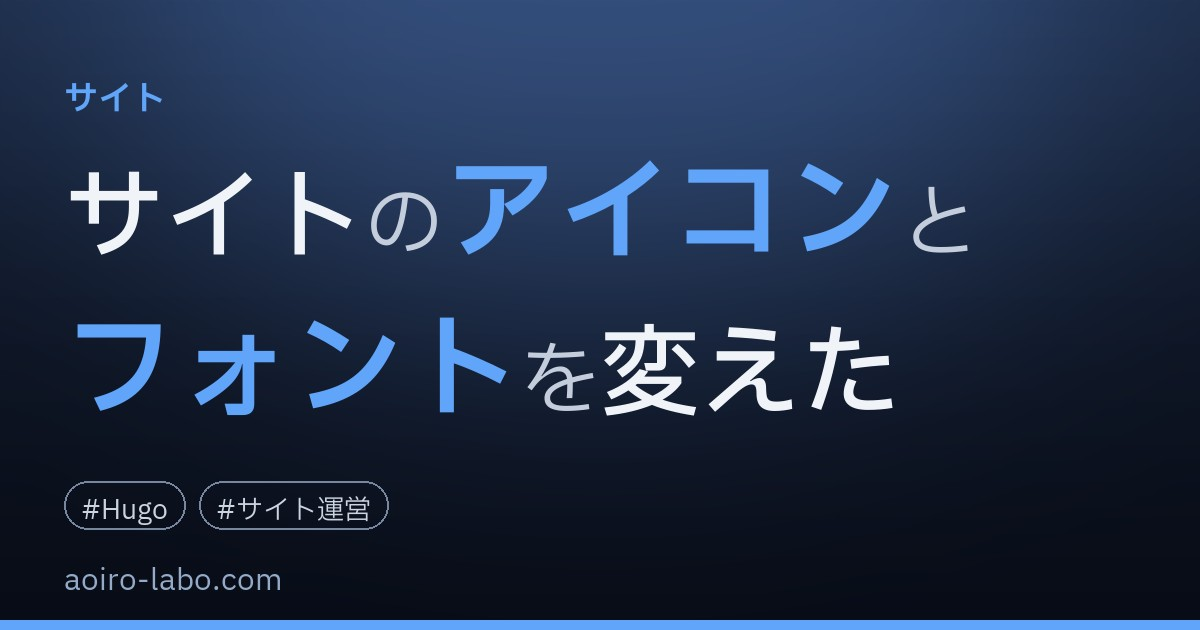
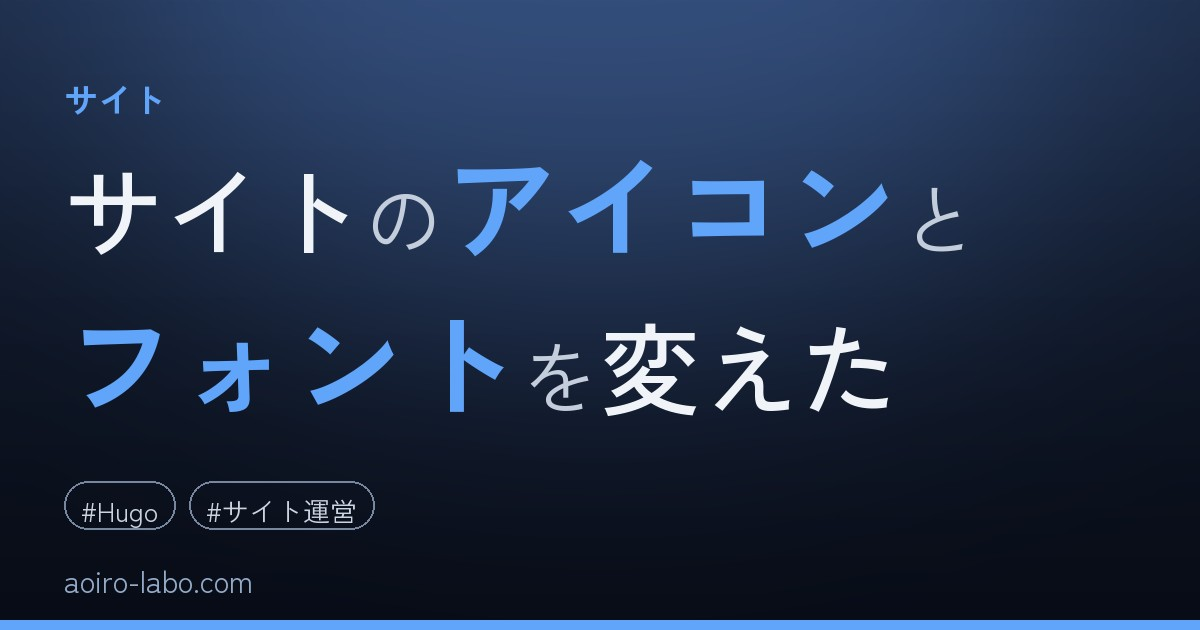
カバー生成のフォントをZen Kaku Gothic Newに変更（サイトと統一）

diff --git a/tools/generate_cover.py b/tools/generate_cover.py
@@ -27,9 +27,10 @@ def fm_of(path):
 
 BOLD=r"C:\Windows\Fonts\YuGothB.ttc"
 REG=r"C:\Windows\Fonts\YuGothM.ttc"
-PLEX_DIR=os.path.join(os.path.dirname(os.path.abspath(__file__)), "fonts")
-def plex_font(weight, size):
-    p = os.path.join(PLEX_DIR, f"IBMPlexSansJP-{weight}.ttf")
+FONT_DIR=os.path.join(os.path.dirname(os.path.abspath(__file__)), "fonts")
+ZEN_MAP={"Regular":"ZenKakuGothicNew-Regular.ttf","Medium":"ZenKakuGothicNew-Medium.ttf","SemiBold":"ZenKakuGothicNew-Bold.ttf","Bold":"ZenKakuGothicNew-Black.ttf"}
+def cover_font(weight, size):
+    p = os.path.join(FONT_DIR, ZEN_MAP[weight])
     if os.path.exists(p):
         return ImageFont.truetype(p, size)
     return ImageFont.truetype(BOLD if weight in ("Bold", "SemiBold") else REG, size)
@@ -227,10 +228,10 @@ def background(acc):
     return ImageChops.add(img, glow)
 
 def style_of(cls, size, acc):
-    if cls=='hero': return plex_font("Bold", int(size*1.45)), WHITE
-    if cls=='accent': return plex_font("SemiBold", int(size*1.15)), acc
-    if cls=='sub': return plex_font("Regular", max(20,int(size*0.8))), SUBC
-    return plex_font("Medium", size), BASE
+    if cls=='hero': return cover_font("Bold", int(size*1.45)), WHITE
+    if cls=='accent': return cover_font("SemiBold", int(size*1.15)), acc
+    if cls=='sub': return cover_font("Regular", max(20,int(size*0.8))), SUBC
+    return cover_font("Medium", size), BASE
 
 def line_heights(lines, size, acc):
     hs=[]
@@ -260,7 +261,7 @@ def draw_lines(d, items, lines, widths, x0, y_top, size, acc, heights):
 def finish(d, img, cat, tags, acc, y, out, x0=None, sx=None):
     if tags:
         y += 30
-        tf=plex_font("Regular", 27)
+        tf=cover_font("Regular", 27)
         x=MARGIN if x0 is None else x0
         for tg in tags[:5]:
             label='#'+tg
@@ -269,7 +270,7 @@ def finish(d, img, cat, tags, acc, y, out, x0=None, sx=None):
             d.rounded_rectangle([x,y,x+tw+34,y+48], radius=24, outline=(120,135,160), width=2)
             d.text((x+17,y+9), label, font=tf, fill=(203,213,225))
             x+=tw+34+14
-    d.text((MARGIN if sx is None else sx, H-72), 'aoiro-labo.com', font=plex_font("Regular", 30), fill=(148,170,200))
+    d.text((MARGIN if sx is None else sx, H-72), 'aoiro-labo.com', font=cover_font("Regular", 30), fill=(148,170,200))
     d.rectangle([0,H-10,W,H], fill=acc)
     img.save(out, quality=90)
 
@@ -438,14 +439,14 @@ def make(path, out, hero_override=None, emphasis_override=None):
             total = cat_h + block_h + (30 if tags else 0) + chips_h
             y = (H - total)//2 - 14
             if cat:
-                d.text((MARGIN, y), cat, font=plex_font("SemiBold", 34), fill=acc); y += 34+30
+                d.text((MARGIN, y), cat, font=cover_font("SemiBold", 34), fill=acc); y += 34+30
             if bracket:
-                d.text((MARGIN, y), bracket, font=plex_font("SemiBold", 40), fill=SUBC); y += bracket_h
+                d.text((MARGIN, y), bracket, font=cover_font("SemiBold", 40), fill=SUBC); y += bracket_h
             draw_lines(d, items, lines, widths, MARGIN, y, size, acc, heights)
             y += block_h
             if tags:
                 y += 30
-                tf=plex_font("Regular", 27)
+                tf=cover_font("Regular", 27)
                 x=MARGIN
                 for tg in tags[:5]:
                     label='#'+tg
@@ -471,7 +472,7 @@ def make(path, out, hero_override=None, emphasis_override=None):
             md.rounded_rectangle([0,0,nw,nh], radius=14, fill=255)
             img.paste(thumb,(px,py),mask)
             d.rounded_rectangle([px,py,px+nw,py+nh], radius=14, outline=(120,135,160), width=2)
-            d.text((MARGIN, H-72), 'aoiro-labo.com', font=plex_font("Regular", 30), fill=(148,170,200))
+            d.text((MARGIN, H-72), 'aoiro-labo.com', font=cover_font("Regular", 30), fill=(148,170,200))
             d.rectangle([0,H-10,W,H], fill=acc)
             img.save(out, quality=90)
             print('made (natural)', out, '| hero:', hero, '| lines:', [[t for (t,c,g) in ln] for ln in lines])
@@ -481,7 +482,7 @@ def make(path, out, hero_override=None, emphasis_override=None):
         # try zone composition: hero block on the right, white
         ksize=300
         while ksize>90:
-            kw_font=plex_font("Bold", ksize)
+            kw_font=cover_font("Bold", ksize)
             kw_w=d.textlength(hero, font=kw_font)
             if kw_w <= W*0.46: break
             ksize-=12
@@ -504,16 +505,16 @@ def make(path, out, hero_override=None, emphasis_override=None):
             block_h=sum(heights)
             kw_w_max = kw_w
             # size the hero so its ink height matches the left text block height
-            _f100=plex_font("Bold", 100)
+            _f100=cover_font("Bold", 100)
             _bb=d.textbbox((0,0), hero, font=_f100)
             _ratio=(_bb[3]-_bb[1])/100.0
             ksize=max(60, int(block_h*0.96/_ratio))
             while ksize>60:
-                kw_font=plex_font("Bold", ksize)
+                kw_font=cover_font("Bold", ksize)
                 kw_w=d.textlength(hero, font=kw_font)
                 if kw_w <= kw_w_max: break
                 ksize-=8
-            kw_font=plex_font("Bold", ksize)
+            kw_font=cover_font("Bold", ksize)
             kw_w=d.textlength(hero, font=kw_font)
             kw_bb=d.textbbox((0,0), hero, font=kw_font)
             line_ws=[]; _idx=0
@@ -524,9 +525,9 @@ def make(path, out, hero_override=None, emphasis_override=None):
             total = cat_h + block_h + (30 if tags else 0) + chips_h
             y = (H - total)//2 - 14
             if cat:
-                d.text((gx, y), cat, font=plex_font("SemiBold", 34), fill=acc); y += 34+30
+                d.text((gx, y), cat, font=cover_font("SemiBold", 34), fill=acc); y += 34+30
             if bracket:
-                d.text((gx, y), bracket, font=plex_font("SemiBold", 40), fill=SUBC); y += bracket_h
+                d.text((gx, y), bracket, font=cover_font("SemiBold", 40), fill=SUBC); y += bracket_h
             title_top = y
             draw_lines(d, items, lines, widths, gx, y, size, acc, heights)
             d.text((gx + maxlw + 14, title_top - kw_bb[1]), hero, font=kw_font, fill=WHITE)
@@ -568,9 +569,9 @@ def make(path, out, hero_override=None, emphasis_override=None):
     total = cat_h + block_h + (30 if tags else 0) + chips_h
     y = (H - total)//2 - 14
     if cat:
-        d.text((MARGIN, y), cat, font=plex_font("SemiBold", 34), fill=acc); y += 34+30
+        d.text((MARGIN, y), cat, font=cover_font("SemiBold", 34), fill=acc); y += 34+30
     if bracket:
-        d.text((MARGIN, y), bracket, font=plex_font("SemiBold", 40), fill=SUBC); y += bracket_h
+        d.text((MARGIN, y), bracket, font=cover_font("SemiBold", 40), fill=SUBC); y += bracket_h
     draw_lines(d, items, lines, widths, MARGIN, y, size, acc, heights)
     y += block_h
     finish(d, img, cat, tags, acc, y, out)
